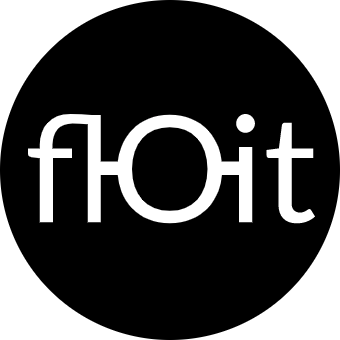
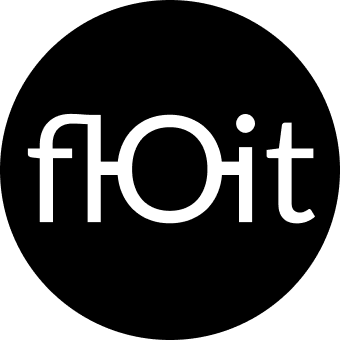
new build on main

Changed region(s): [[0.9118, 0.4412, 0.9412, 0.4706]]

diff --git a/index.html b/index.html
@@ -95,9 +95,10 @@
           flOit Technology<br />Launchpad Venture Studio<br />Penryn Campus<br />Treliever Rd<br />Penryn<br />TR10&nbsp;9FE
         </div>
         <div class="col logo">
-          <figure class="right">
-            <img src="./images/footer.jpg" alt="floit logo" class="image-footer">
-          </figure>
+          <picture class="right">
+            <source srcset="./images/footer_2x.png" media="(-webkit-min-device-pixel-ratio: 2)"/>
+            <img src="./images/footer.png" alt="floit logo" class="image-hero">
+          </picture>
           <p class="right copyright">© 2022 flOit</p>
         </div>
       </div>
